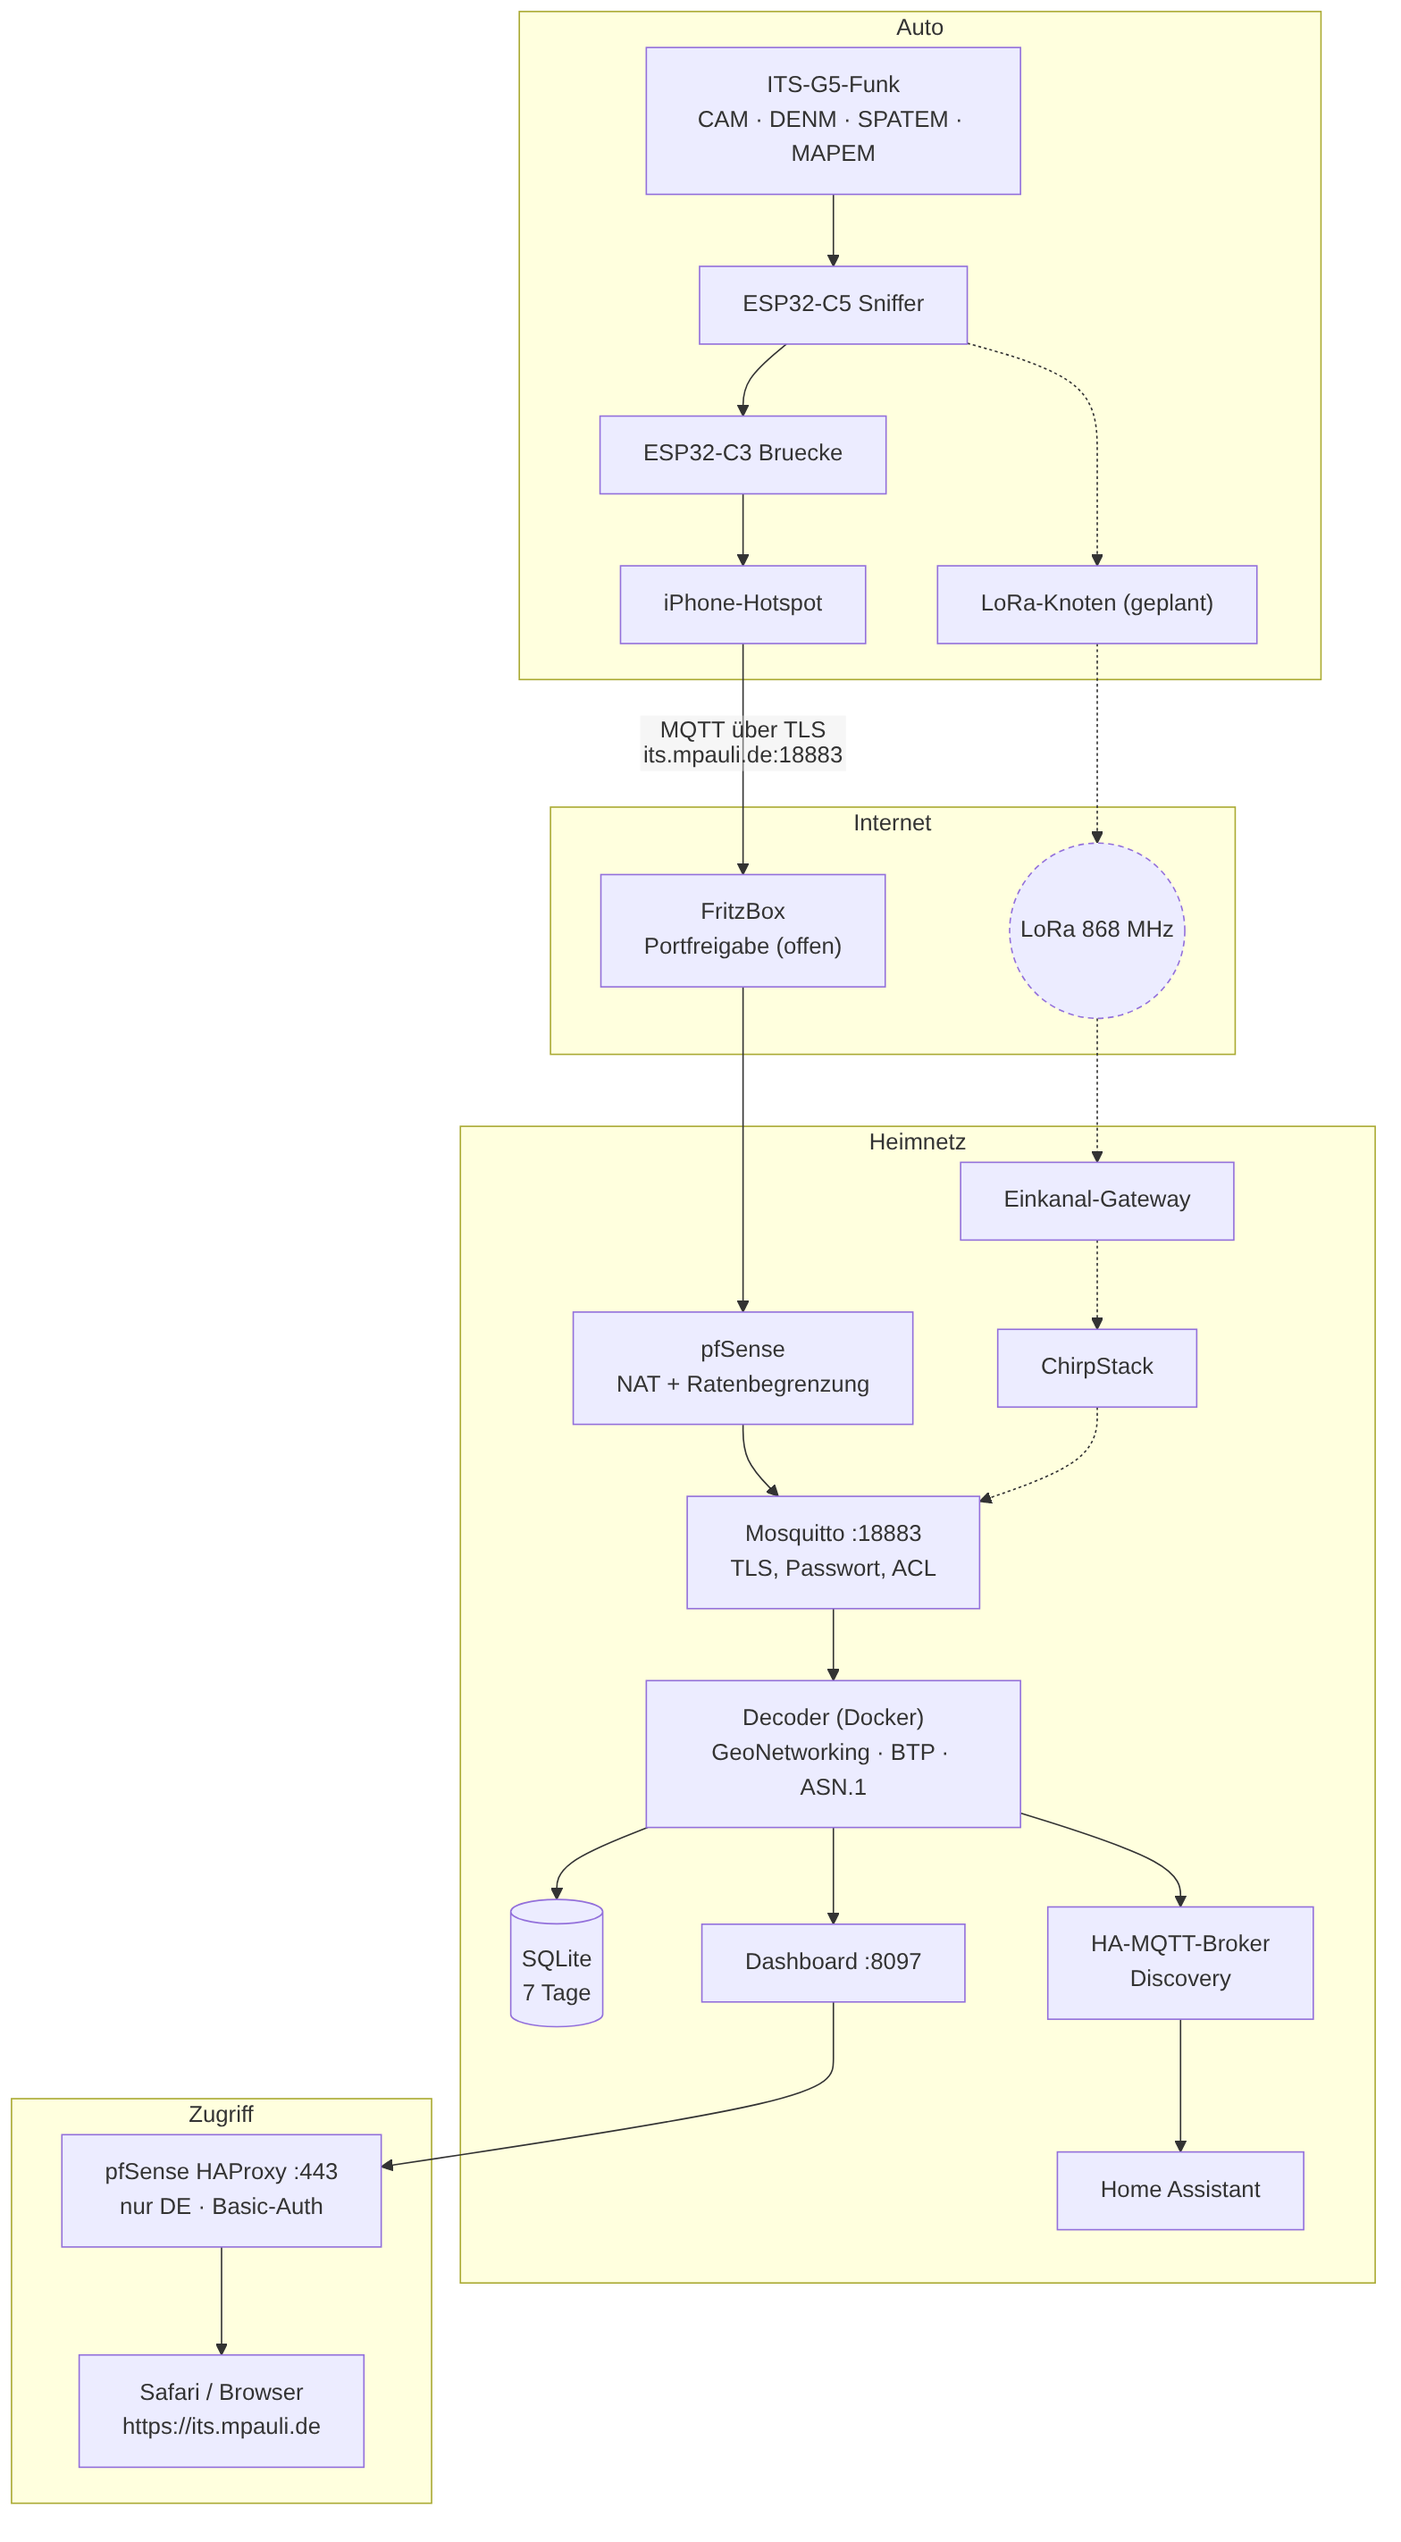
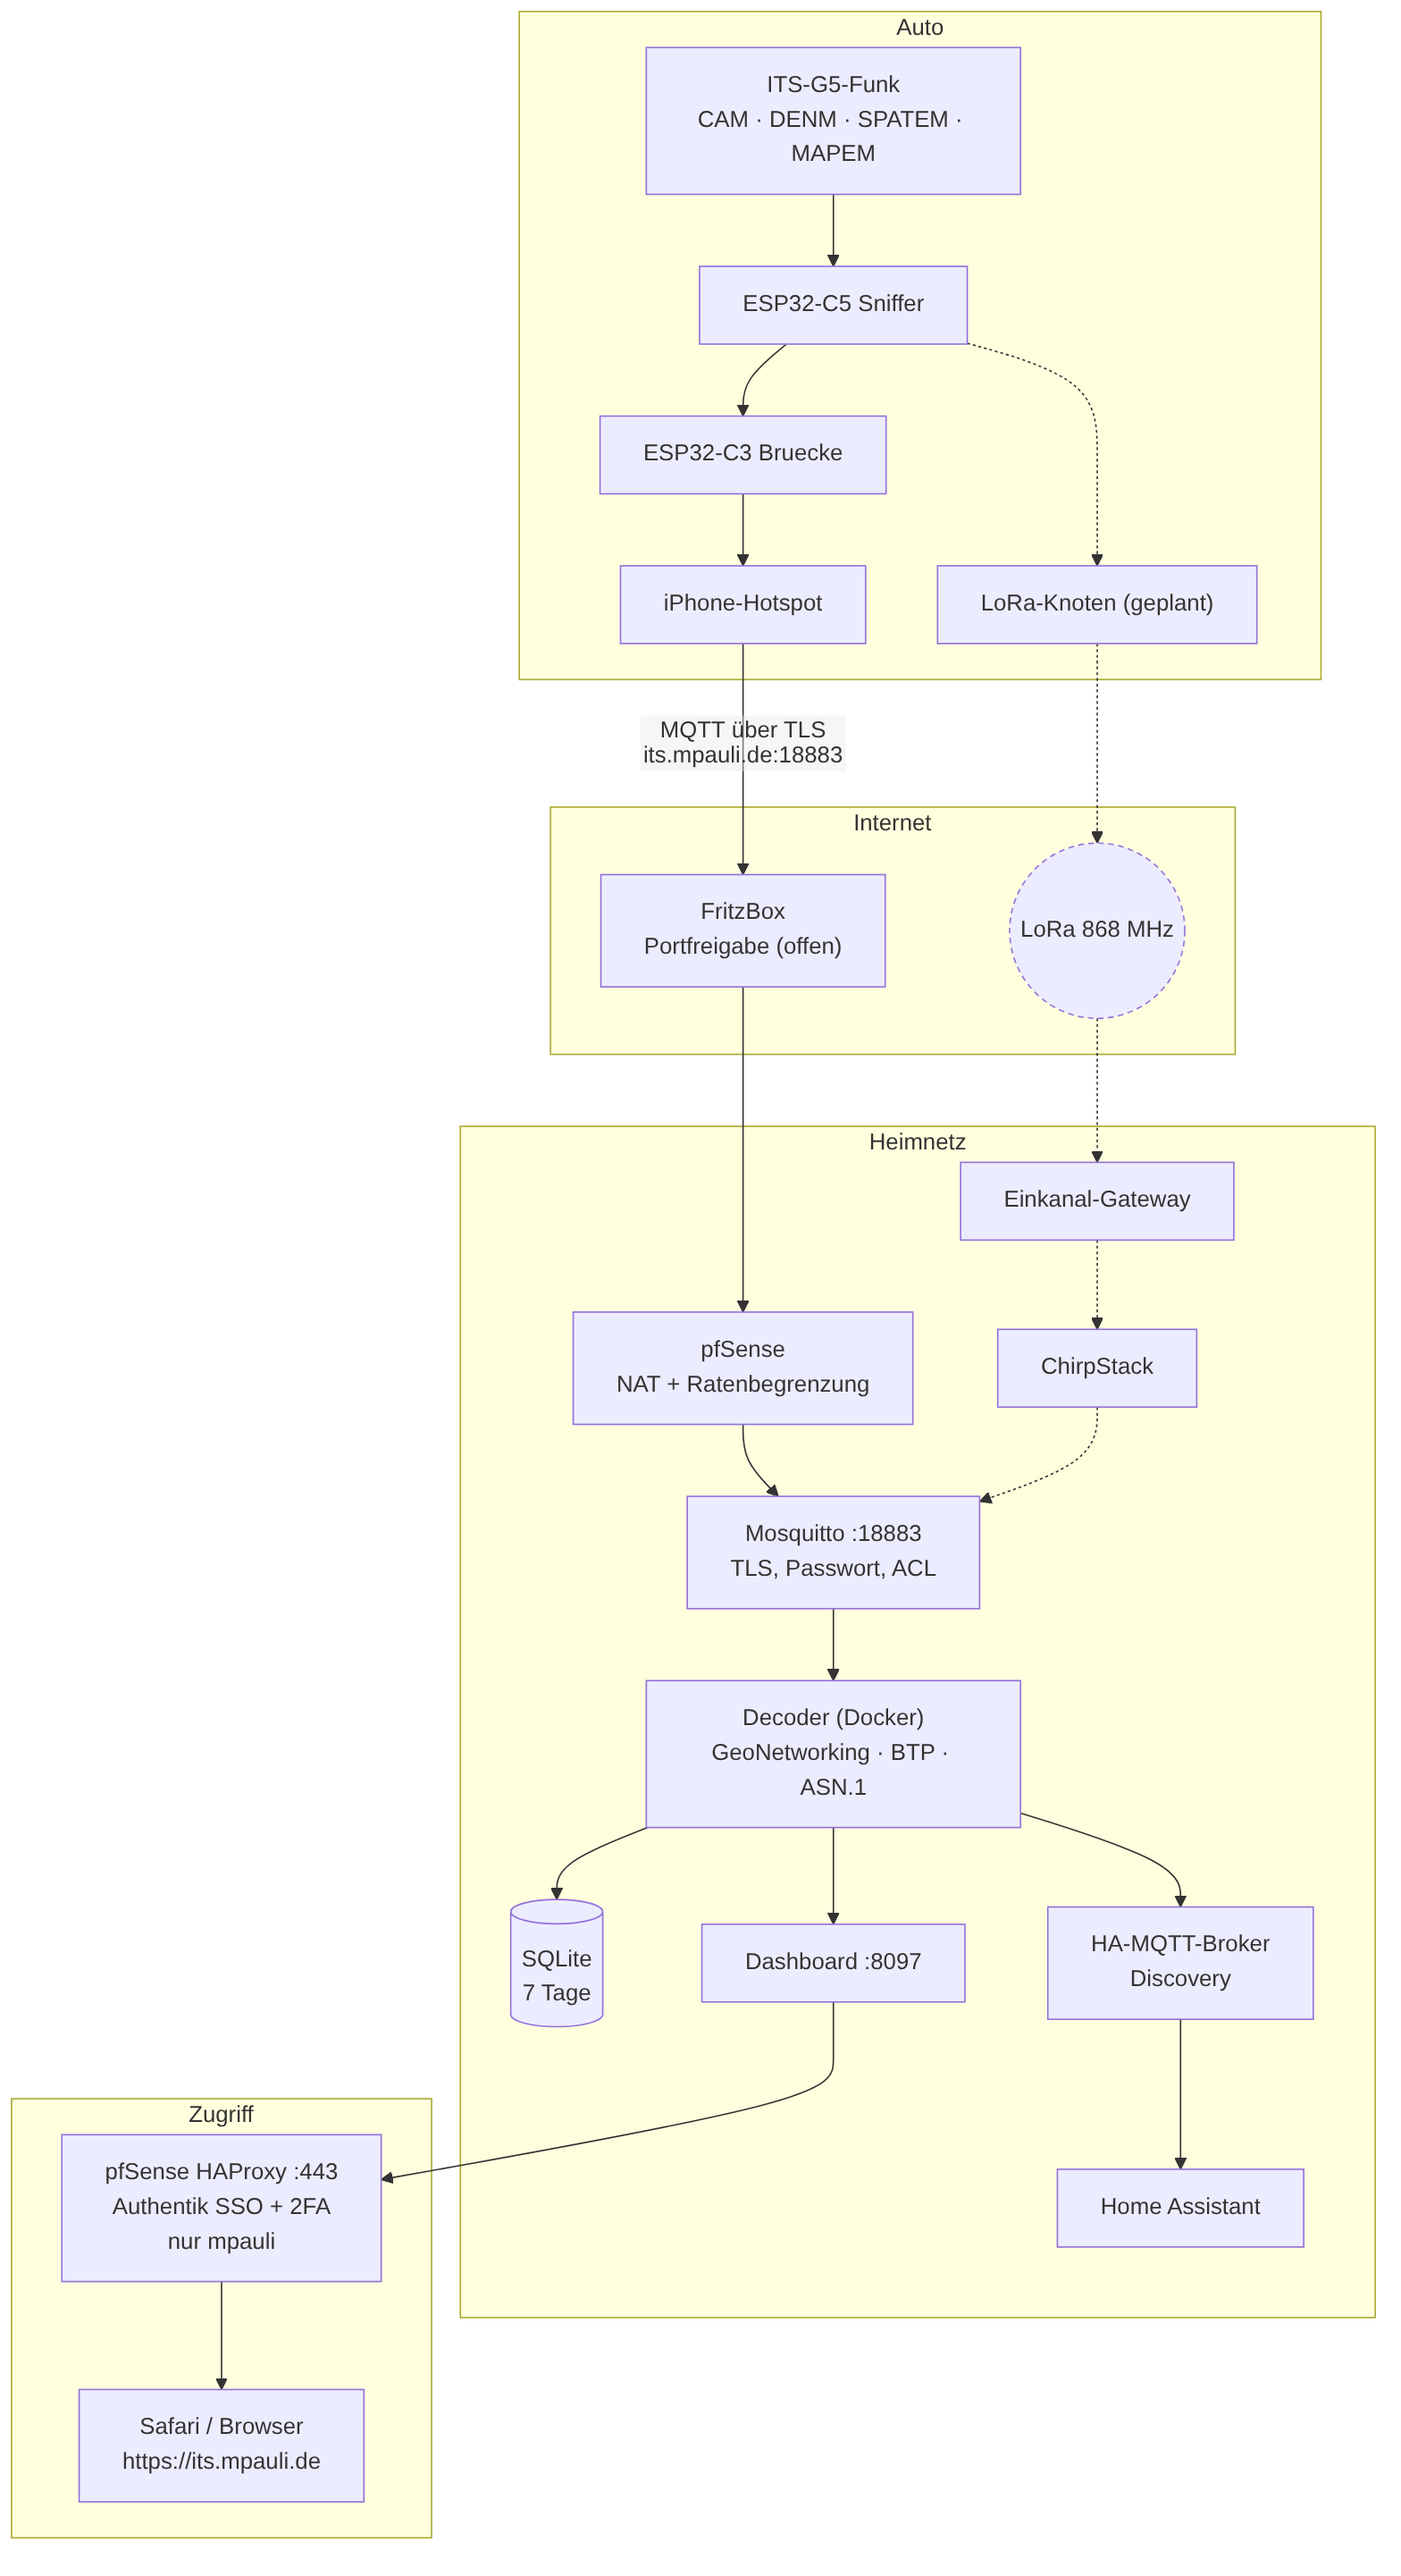
Dashboard hinter Authentik SSO+2FA (nur mpauli); MQTT-TLS bleibt direkt

diff --git a/docs/13-dashboard-veroeffentlichen.md b/docs/13-dashboard-veroeffentlichen.md
@@ -1,4 +1,4 @@
-# 13 – Dashboard öffentlich: https://its.mpauli.de (Vorlage: THW-Barbeleg)
+# 13 – Dashboard öffentlich: https://its.mpauli.de (hinter Authentik SSO + 2FA)
 
 Das Dashboard ([09](09-decoder.md)) ist nach demselben Muster wie `invoice.mpauli.de` (THW-Barbeleg) veröffentlicht: Hetzner-DNS, Let's-Encrypt-Zertifikat, pfSense-HAProxy als TLS-Edge, drei Schutzschichten.
 
@@ -9,12 +9,13 @@ Das Dashboard ([09](09-decoder.md)) ist nach demselben Muster wie `invoice.mpaul
 ```mermaid
 flowchart LR
     I["Internet"] --> F["FritzBox<br/>DNAT 443"]
-    F --> H["pfSense HAProxy<br/>joplin_https (SNI)"]
-    H --> G{"Quelle in DE<br/>oder privat?"}
-    G -- nein --> X["403"]
-    G -- ja --> A{"Basic-Auth<br/>Benutzer its"}
-    A -- nein --> U["401"]
-    A -- ja --> D["Decoder-Dashboard<br/>NUC-HA :8097"]
+    F --> U["USG-Pro-4<br/>DNAT 443"]
+    U --> H["pfSense HAProxy<br/>SNI its.mpauli.de"]
+    H --> O["Authentik Outpost<br/>10.10.0.70:9000"]
+    O -- "nicht angemeldet" --> A["Authentik Login<br/>auth.mpauli.de<br/>Passwort + 2FA"]
+    A -- "nur Benutzer mpauli" --> O
+    O --> D["Decoder-Dashboard<br/>NUC-HA :8097"]
+    M["Auto-Bruecke<br/>MQTT TLS :18883"] -. "direkt, ohne Authentik" .-> B["Mosquitto<br/>Passwort + ACL"]
 ```
 
 </details>
@@ -22,30 +23,30 @@ flowchart LR
 
 | Schicht | Umsetzung |
 |---|---|
-| 1. Nur Deutschland | HAProxy-Quell-ACL aus derselben CIDR-Liste wie beim Barbeleg (ipdeny.com, monatlich erneuern); private Netze sind ausgenommen |
-| 2. Front-door-Login | HTTP-Basic-Auth, Benutzer `its`; Passwort nur auf dem Server unter `$ITS_DEPLOY/secrets/web.pass` |
+| 1. Authentik (SSO + 2FA) | Wie bei allen aus dem Internet erreichbaren Diensten: HAProxy leitet an den Authentik-Outpost; nicht angemeldete Besucher werden zum Login (`auth.mpauli.de`, Passwort + 2. Faktor) umgeleitet |
+| 2. Nur `mpauli` | Zugriffsregel an der Anwendung `its`: nur der Benutzer `mpauli` (Policy-Binding, Modus „any") |
 | 3. Anwendung | Das Dashboard selbst hat keinen eigenen Login |
 
-## Schritte (wie beim Barbeleg)
-1. **DNS/DDNS:** `its` steht im Hetzner-DDNS-Skript (`HOSTS=`) – siehe [08](08-heimserver.md).
-2. **Zertifikat:** `acme.sh --issue --dns dns_mphcloud -d its.mpauli.de --server letsencrypt` (Custom-Hook, Standard-Plugins schreiben in die falsche Zone).
-3. **HAProxy-Veröffentlichung:** `/opt/sso-publish.sh its its.mpauli.de 10.10.0.100 8097 no` importiert das Zertifikat, legt Pool, ACL und Action an und lädt HAProxy **validiert** neu.
-4. **Schutzschichten:** im Pool `its_backend` die Advanced-Backend-Zeilen (DE-ACL, interne Netze, Basic-Auth) setzen – gleiche Zeilen wie beim Barbeleg, nur mit eigenen ACL-Namen und eigenem Passwort. Vorher Sicherung der pfSense-Config.
-5. **Split-DNS:** `/opt/sso-dns-sync.sh` biegt `its.mpauli.de` intern automatisch auf die HAProxy-Adresse (192.168.178.154), weil der A-Record auf die Heim-IP zeigt.
+**Ausnahme MQTT:** Die TLS-Verbindung der Auto-Brücke (`its.mpauli.de:18883`) läuft **direkt** am Broker vorbei an Authentik – sie ist durch TLS, Passwort und Schreib-ACL gesichert ([08](08-heimserver.md)).
+
+## Schritte
+1. **DNS/DDNS + Zertifikat:** `its` steht im Hetzner-DDNS-Skript; das Let's-Encrypt-Zertifikat wird per `acme.sh --dns dns_mphcloud` ausgestellt.
+2. **SSO-Veröffentlichung:** `/opt/sso-gate.sh its its.mpauli.de http://10.10.0.100:8097` legt Proxy-Provider und Anwendung in Authentik an, hängt sie an den Outpost und veröffentlicht am HAProxy (Backend = Outpost :9000).
+3. **Zugriff auf `mpauli` beschränken:** Policy-Binding (Benutzer `mpauli`, Reihenfolge 0) an der Anwendung, `policy_engine_mode = any` – wie bei ArgoCD, CheckMK u. a.
+4. **Split-DNS:** `/opt/sso-dns-sync.sh` biegt `its.mpauli.de` intern auf die HAProxy-Adresse (192.168.178.154) – dort greift dieselbe Authentik-Regel.
+5. Vorher war das Dashboard mit Basic-Auth und DE-Filter direkt veröffentlicht (Muster THW-Barbeleg); diese Direktveröffentlichung wurde entfernt (pfSense-Sicherung vorher).
 
 ## Prüfung (01.11.2026)
 | Test | Ergebnis |
 |---|---|
-| intern, ohne Login | 401 |
-| intern, falsches Passwort | 401 |
-| intern, richtiges Passwort (`/` und `/api/state`) | 200 |
-| extern (Hetzner-Server in DE über die öffentliche IP), ohne / mit Login | 401 / 200 |
-| Quelle außerhalb Deutschlands | **nicht getestet** (kein Testhost außerhalb DE) |
+| intern und extern (Hetzner-Server), `/` und `/api/state` ohne Anmeldung | 302 → Authentik-Login |
+| Basic-Auth mit alten Zugangsdaten | 401 (kein Zugriff mehr) |
+| MQTT über TLS (`:18883`) von außen | direkt erreichbar, Anmeldung ok |
+| Vollständiger Browser-Login mit 2. Faktor | **nicht automatisiert getestet** – bitte einmal im Browser prüfen |
 
 ## Wichtig: derselbe Name, zwei Dienste
 `its.mpauli.de` dient für **HTTPS (443, Dashboard)** und für **MQTT (18883, Auto)**. Durch das Split-DNS landet ein Gerät im LAN bei `its.mpauli.de:18883` auf der pfSense-Adresse, wo es keine LAN-seitige Weiterleitung gibt. Im Heimnetz die Bridge darum auf `<NUC-IP>:1885` (ohne TLS) stellen. Im Auto über den Hotspot ist der Name öffentlich und funktioniert.
 
-## Nachziehen/Wartung
-- DE-Liste auf der pfSense erneuern (siehe Barbeleg-Doku: `fetch` von ipdeny.com, danach validierter HAProxy-Reload).
-- Zertifikat erneuert acme.sh automatisch; für den Broker kopiert der `--reloadcmd` aus `scripts/setup-broker.sh` das neue Zertifikat und startet den Broker neu. Für HAProxy muss das erneuerte Zertifikat erneut importiert werden (wie bei den übrigen Hosts, siehe `/opt/sso-cert-deploy.sh`).
-- Optional: MQTT-Port 18883 ebenfalls auf DE-Quellen beschränken (pf-Alias aus derselben Liste).
+## Wartung
+- Zertifikat erneuert acme.sh automatisch; für HAProxy muss das erneuerte Zertifikat erneut importiert werden (wie bei den übrigen Hosts, `/opt/sso-cert-deploy.sh`), für den Broker kopiert der `--reloadcmd` aus `scripts/setup-broker.sh` es.
+- Weitere Benutzer später: Policy-Binding in Authentik ergänzen.

diff --git a/docs/16-todo-nach-lieferung.md b/docs/16-todo-nach-lieferung.md
@@ -54,8 +54,9 @@ Reihenfolge von oben nach unten; Details zu den Schritten in [14](14-inbetriebna
 ## H) Wartung und Sicherheit
 - [ ] DE-IP-Liste auf der pfSense monatlich erneuern ([13](13-dashboard-veroeffentlichen.md))
 - [ ] Prüfen, dass das erneuerte Let's-Encrypt-Zertifikat im Broker und im HAProxy ankommt (Erneuerung ca. Ende Dezember 2026)
-- [ ] Passwörter (`car`, Dashboard-Login) nach dem ersten Feldeinsatz rotieren
+- [ ] MQTT-Passwort (`car`) nach dem ersten Feldeinsatz rotieren
 - [ ] MQTT-Port 18883 optional auf deutsche Quell-IPs beschränken
+- [ ] Dashboard-Login mit Authentik (2FA) einmal im Browser prüfen
 - [ ] Offene Entscheidung: signierte Pakete auch im LoRa-Knoten nach Typ trennen (1609.2-Parser auf dem ESP32)?
 
 # Zugänge zum Ansehen (ohne Hardware)
@@ -63,7 +64,7 @@ Reihenfolge von oben nach unten; Details zu den Schritten in [14](14-inbetriebna
 | Was | Adresse | Anmeldung |
 |---|---|---|
 | ITS-Dashboard (LAN) | `http://10.10.0.100:8097` | keine |
-| ITS-Dashboard (Internet, nur DE) | `https://its.mpauli.de` | Benutzer `its`, Passwort in `/opt/ice-traffic-data/secrets/web.pass` |
+| ITS-Dashboard (Internet) | `https://its.mpauli.de` | Authentik-Login (SSO + 2FA), nur Benutzer `mpauli` |
 | Home Assistant (LAN) | `http://10.10.0.100:8123` → Einstellungen → Geräte → „Ice-Traffic-Data" | wie gewohnt |
 | ChirpStack | `http://10.10.0.100:8180` → Applications → IceTraffic → ice-car | Benutzer `admin`, Passwort lokal in `/opt/chirpstack/geiger_device.json` |
 | Broker (LAN, anonym) | `10.10.0.100:1885` | – |

diff --git a/docs/14-inbetriebnahme.md b/docs/14-inbetriebnahme.md
@@ -8,7 +8,7 @@
 | Decoder + Dashboard | läuft; Tests mit synthetischen Daten; **Demo-Modus** (`decoder/tools_demo.py`) |
 | Home Assistant | Gerät „Ice-Traffic-Data" per MQTT-Discovery; Auto-Knoten-Entities bereit |
 | MQTT öffentlich | `its.mpauli.de:18883` von außen getestet ([08](08-heimserver.md)) |
-| Dashboard öffentlich | `https://its.mpauli.de` (nur DE, Login) ([13](13-dashboard-veroeffentlichen.md)) |
+| Dashboard öffentlich | `https://its.mpauli.de` (hinter Authentik SSO + 2FA, nur `mpauli`) ([13](13-dashboard-veroeffentlichen.md)) |
 | ChirpStack | Anwendung `IceTraffic`, Gerät `ice-car` (ABP) angelegt; Schlüssel nur lokal |
 | LoRa-Kette hinter dem Funkmodul | **Ende-zu-Ende ohne Hardware getestet** (simulierter Uplink → ChirpStack → Decoder → Home Assistant), siehe [Firmware-README](https://github.com/icepaule/Ice-Traffic-Data/tree/main/firmware/lora-car-node) |
 | Dokumentation | Mermaid als PNG (funktioniert überall), GitHub Pages |

diff --git a/docs/00-architektur.md b/docs/00-architektur.md
@@ -49,7 +49,7 @@ flowchart TB
       DEC --> HAMQ["HA-MQTT-Broker<br/>Discovery"] --> HA["Home Assistant"]
     end
     subgraph Zugriff
-      DASH --> HP["pfSense HAProxy :443<br/>nur DE · Basic-Auth"] --> SAF["Safari / Browser<br/>https://its.mpauli.de"]
+      DASH --> HP["pfSense HAProxy :443<br/>Authentik SSO + 2FA<br/>nur mpauli"] --> SAF["Safari / Browser<br/>https://its.mpauli.de"]
     end
     classDef dash stroke-dasharray: 4 3;
 ```
@@ -119,7 +119,7 @@ flowchart LR
 ```mermaid
 flowchart LR
     A["Auto-Bruecke"] -- "TLS 1.2 + Passwort<br/>nur Schreibrecht its/…" --> B["Broker"]
-    C["Browser"] -- "HTTPS · nur DE-IPs · Basic-Auth" --> D["Dashboard"]
+    C["Browser"] -- "HTTPS · Authentik SSO + 2FA · nur mpauli" --> D["Dashboard"]
     B --- E["Decoder: lokal gespeichert,<br/>keine Weitergabe an Dritte"]
 ```
 
